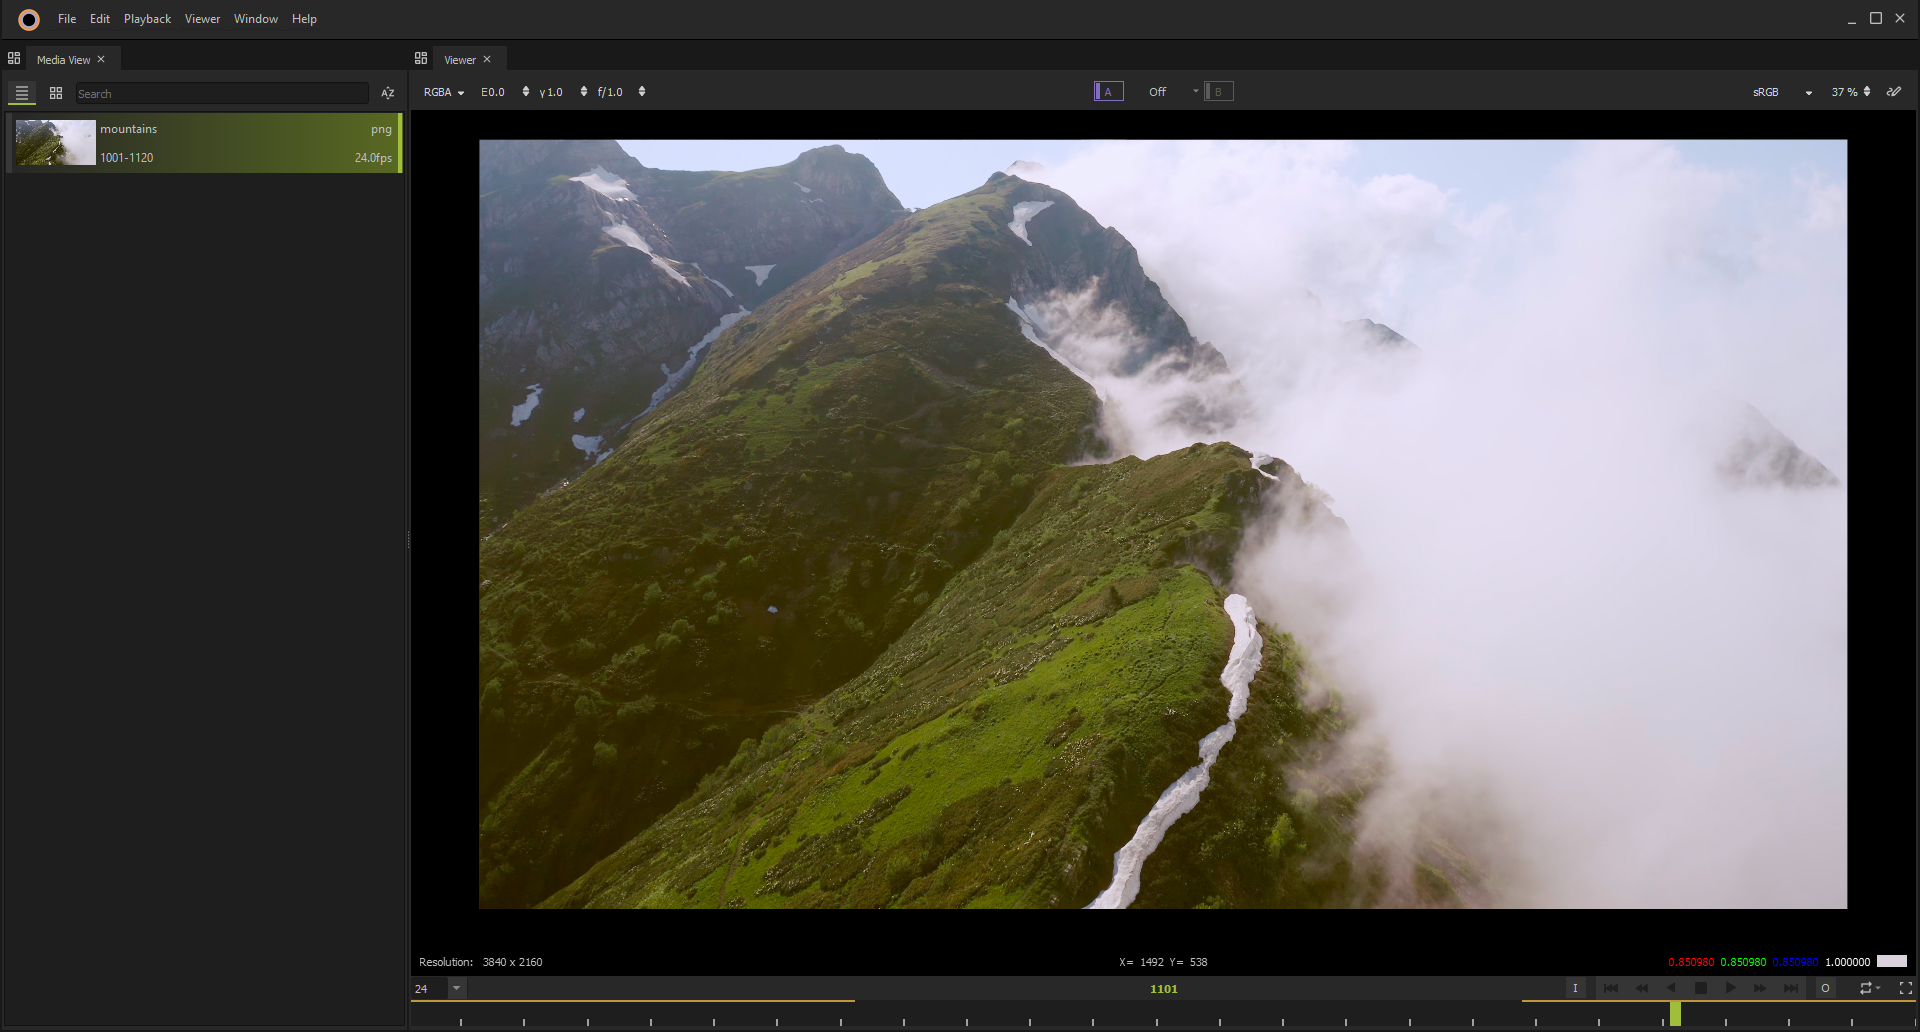
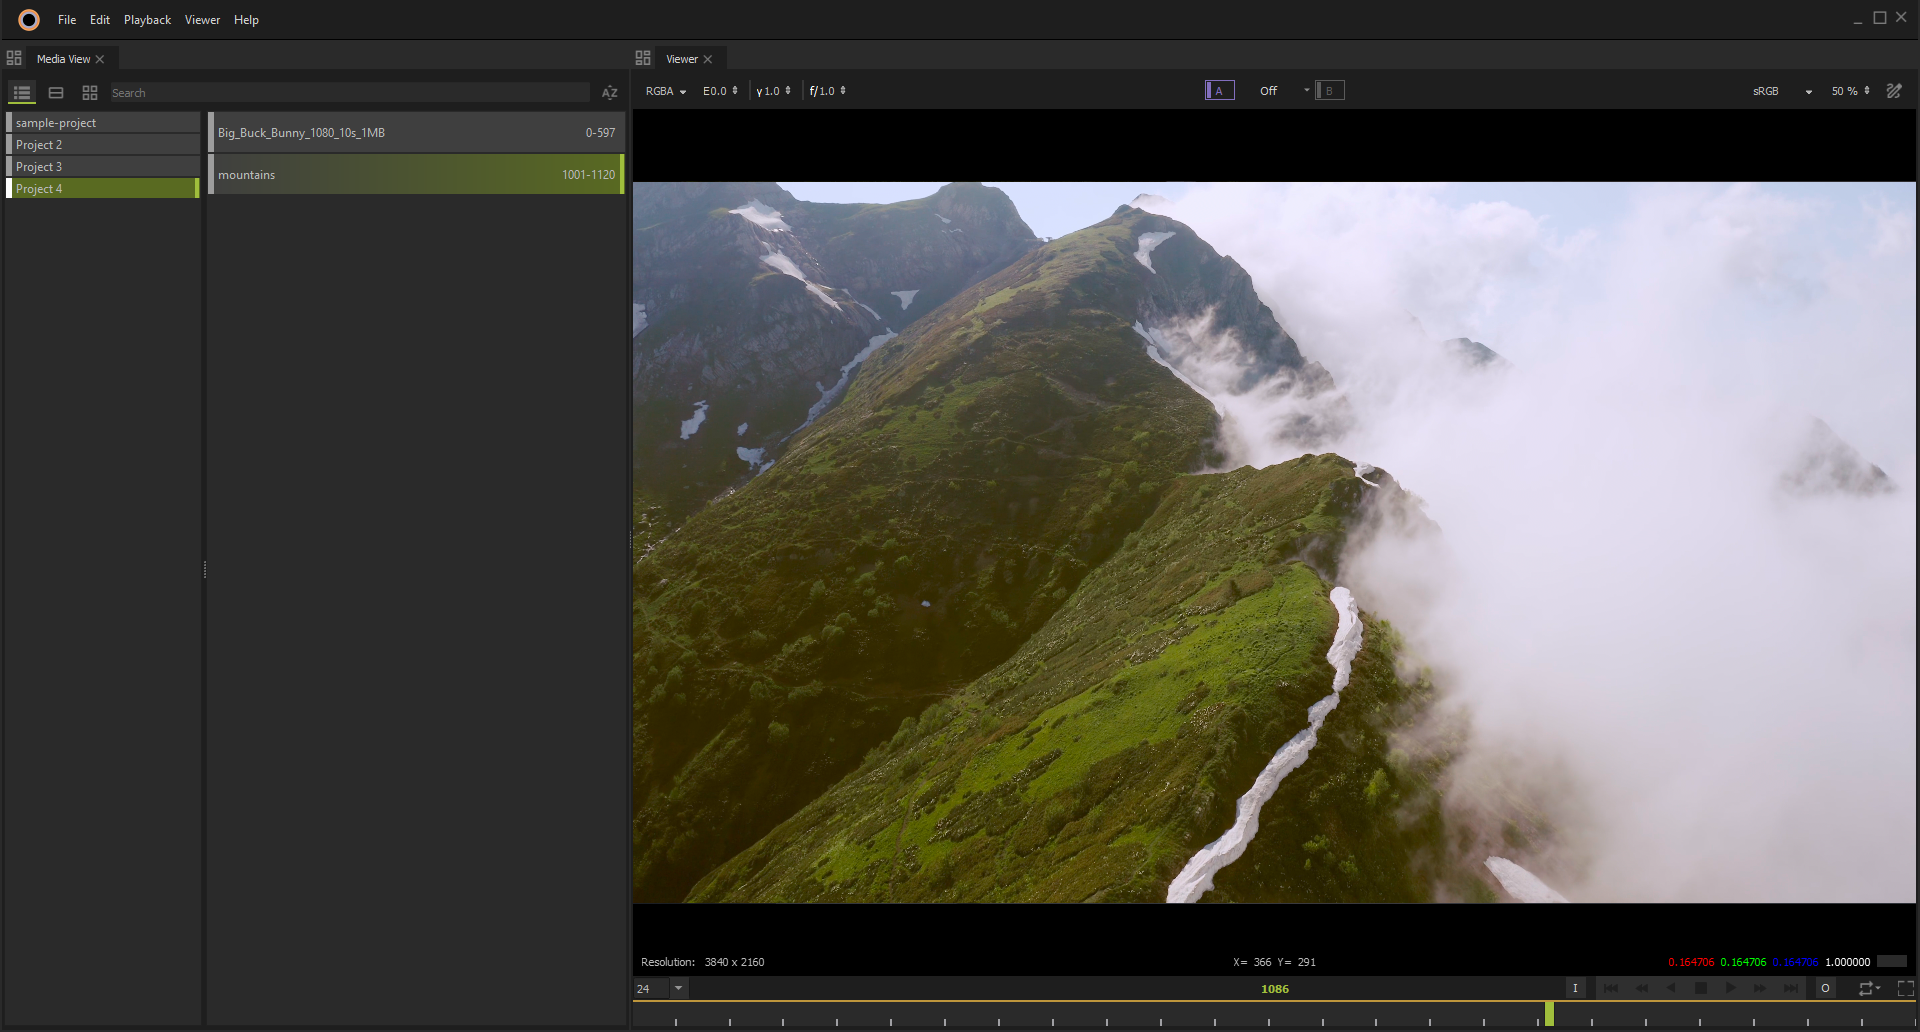
[VOID] Updated changelog | Readme with latest screen grabs

diff --git a/CHANGELOG.md b/CHANGELOG.md
@@ -7,6 +7,34 @@ and VOID player adheres to [Semantic Versioning](https://semver.org/spec/v2.0.0.
 
 ---
 
+## [0.2.0-alpha] - 2025-10-08
+### Added
+- Projects are supported in VOID player.
+- Projects can be created/saved and loaded back.
+- Component serialization and deserialization support through VoidObject with support for ASCII (ether) and Binary (nether) formats.
+- Support for Media directories to be imported through UI menu or dragging the directory over the Media View.
+- Support for playlists within a Project where media can be organized for quick playback and review.
+- Timeline media caching mechanism.
+- Support for dragging multiple media directly on to the Viewer which will play them as a sequence or a single media.
+- Image Metadata viewer for viewing basic metadata from the various image types.
+- Support for scripting in VOID script editor.
+- VOID python bindings 'vortex'.
+- Material icon font based icons support for the player to allow customization of icon color when switching themes.
+- Multiple color scheme support.
+- Internal Menu system handling Menus in the VOID Menu bar.
+- Extension of Menu system to the python API allowing Menu items to be created from python.
+
+### Fixed
+- Minor Memory leaks due to Qt objects not initialized with proper parents causing the clean up to ignore when parent is destroyed.
+- Dock panel menu pops-up instantly as opposed to a small wait time earlier when the button reverts to its original state.
+- Issue with internal FFmpeg reader where seeking was not working as expected when jumping between frame randomly on Movie type media.
+
+### Misc
+- Internal organisation of the project components to make Undo a UI entity.
+- Optimized Movie file import times by removing additional queries to 'avformat_find_stream_info' when reading movie frames and framerate using FFmpeg API.
+- Added Project Bridge to deal with Project components.
+
+
 ## [0.1.0-alpha] - 2025-08-07
 ### Added
 - Initial public release of VOID.

diff --git a/README.md b/README.md
@@ -12,10 +12,14 @@ Below are a few screenshots showcasing its early interface and capabilities.
 
 ---
 
-## Playlist & Media Organization
+## Project & Media Organization
 
+- Multi project support for Media
 - Drag-and-drop support for directories
 - Automatically builds structured playlists from media folders
+- In-project multi playlist support for further grouping media for quick review & playback
+
+[<img src="images/VoidPlaylist.png" width="1000"/>](images/VoidPlaylist.png)
 
 ---
 
@@ -39,6 +43,8 @@ The player also supports **media reader plugins**, allowing developers to extend
 - **Dual-buffer playback**: A/B buffers for simultaneous media handling
 
 [<img src="images/VoidPlayerPlaying.png" width="1000"/>](images/VoidPlayerPlaying.png)
+
+[<img src="images/VoidMultiBuffer.png" width="1000"/>](images/VoidMultiBuffer.png)
 
 [<img src="images/VoidChannelSupport.png" width="1000"/>](images/VoidChannelSupport.png)
 
@@ -76,10 +82,19 @@ Dual-buffer mode enables rich media comparison using multiple viewer layouts:
 Customize player behavior with basic preferences:
 
 - Default media view interface
+- Customization of the color scheme
 - Handling of missing frames
 - Undo history settings
 
 [<img src="images/VoidPreferences.png" width="1000"/>](images/VoidPreferences.png)
+
+## Scripting
+
+Support for scripting on the player using python bindings.
+
+VOID provides internal API via **vortex** python binding, allowing interaction with internal components of the system
+
+[<img src="images/VoidScriptEditor.png" width="1000"/>](images/VoidScriptEditor.png)
 
 ---
 
